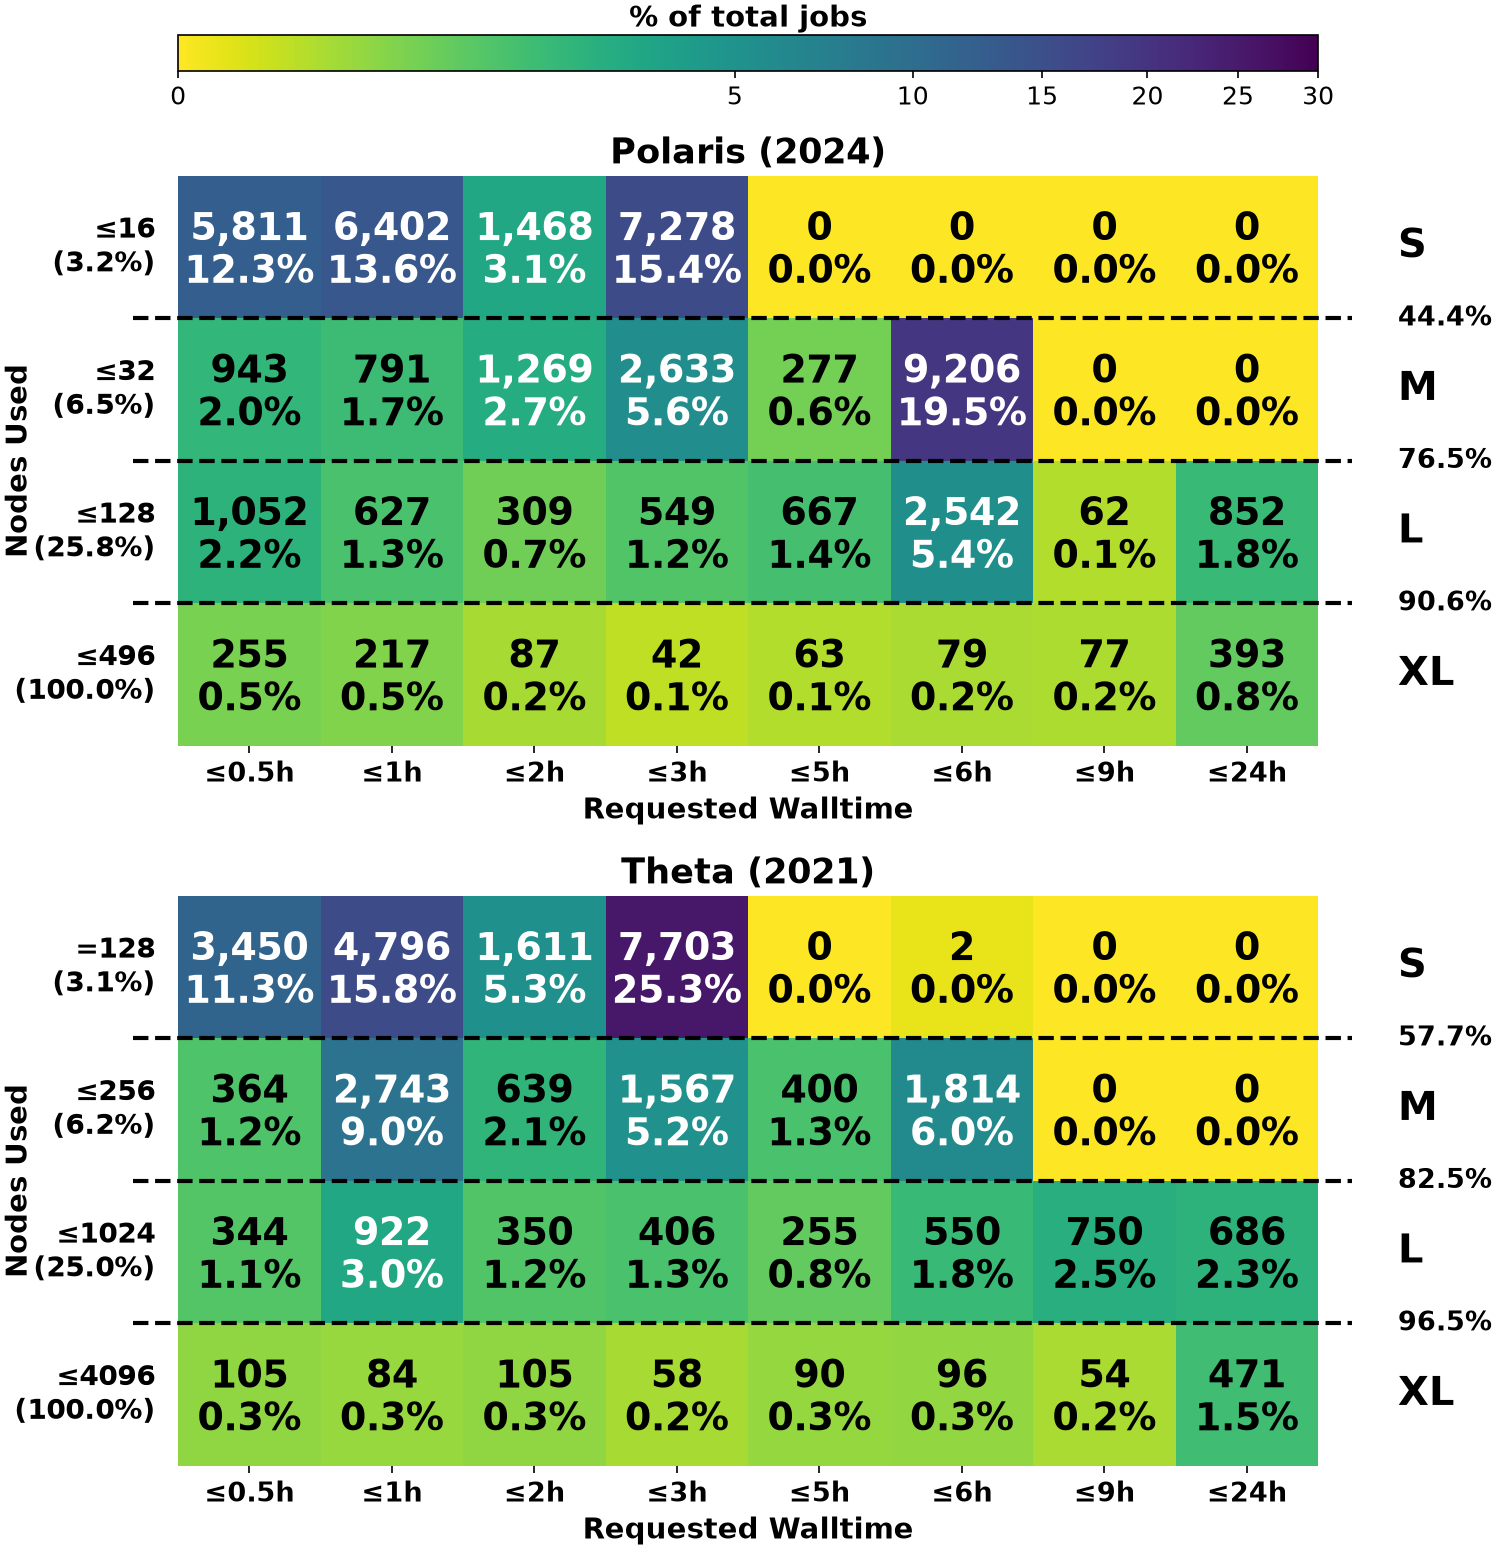
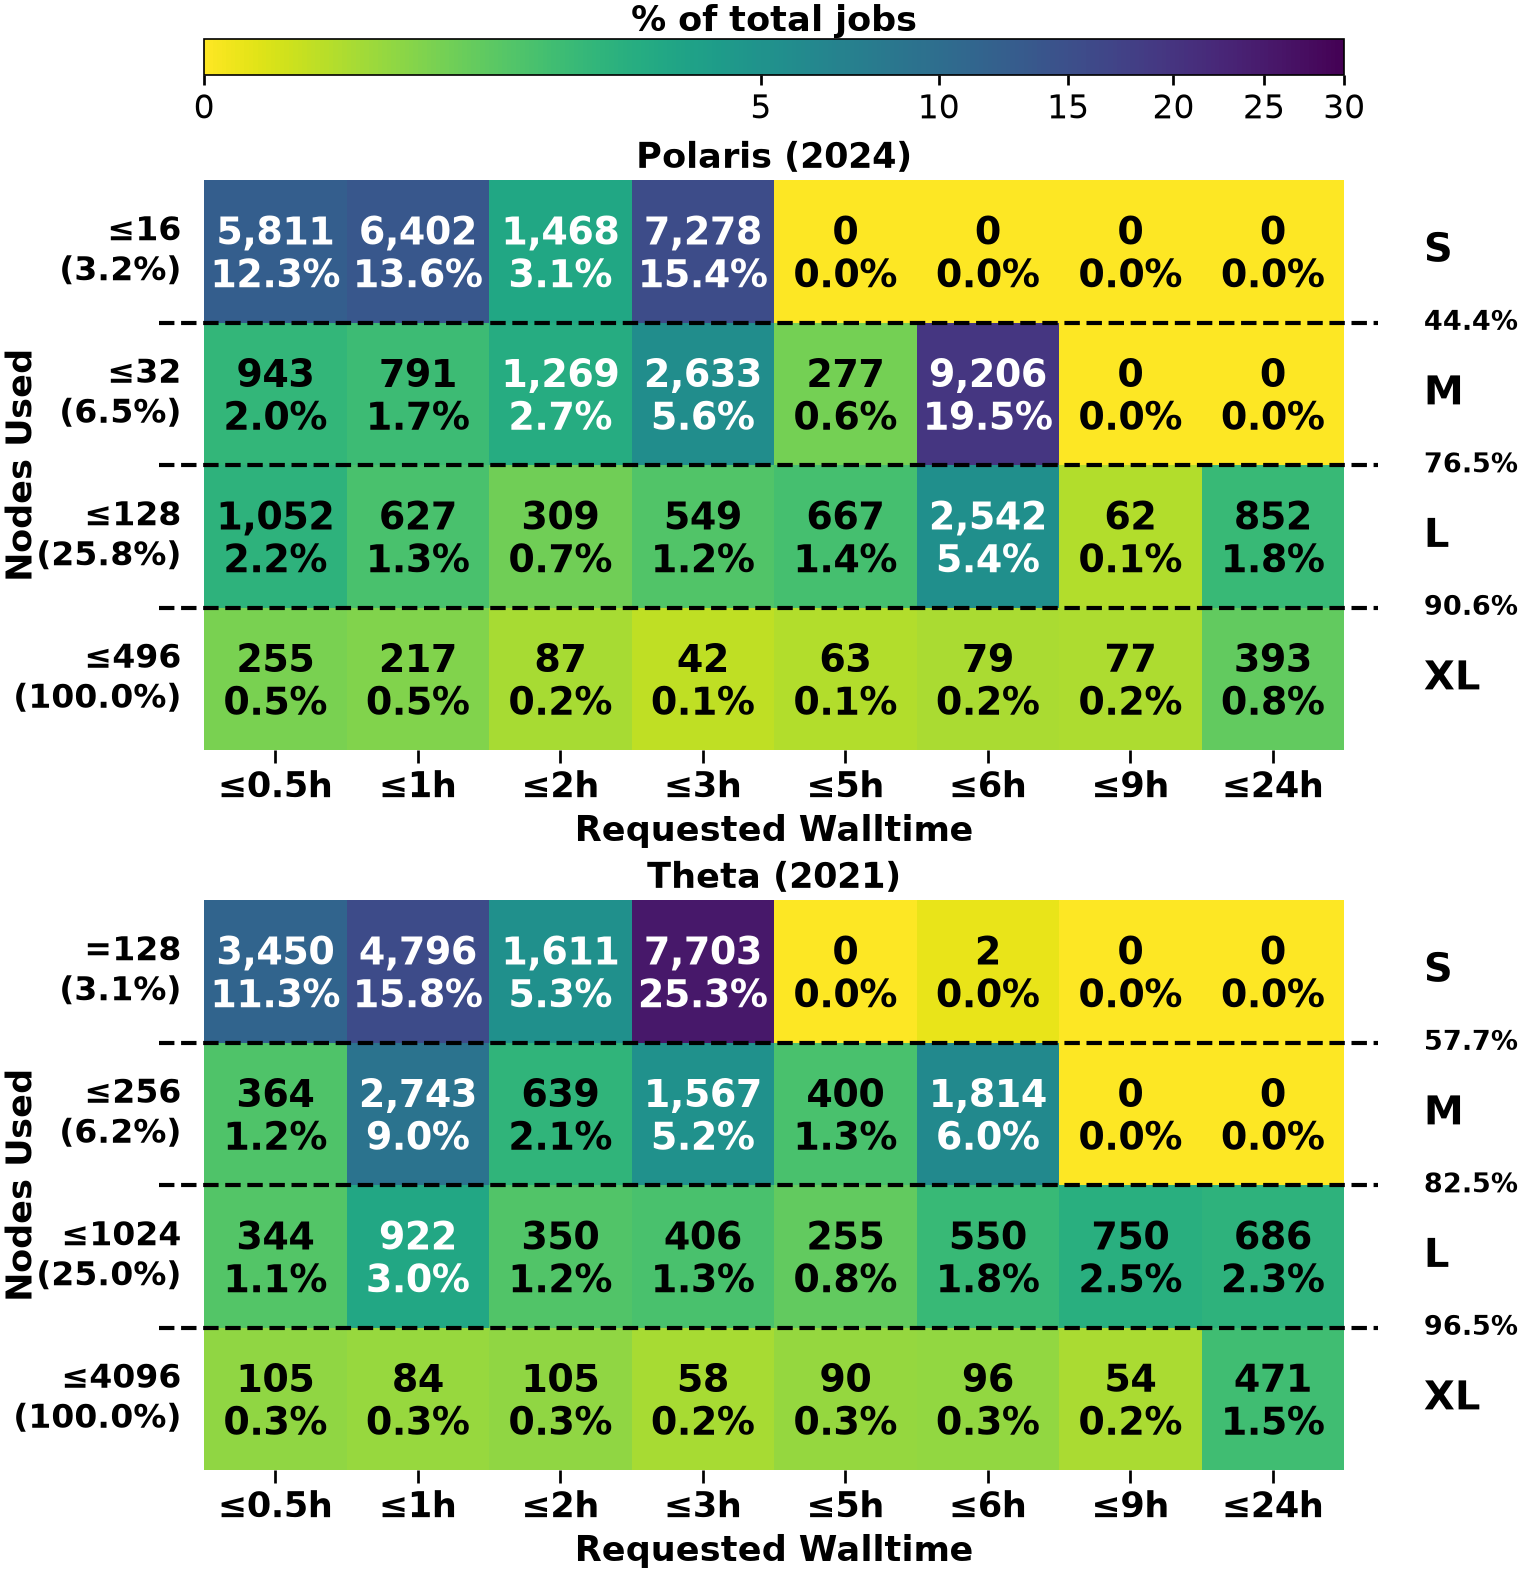
increase heatmap fonts

diff --git a/scripts/plot_cluster26.py b/scripts/plot_cluster26.py
@@ -1554,7 +1554,7 @@ def _cell_text_color(value, norm, cmap):
 # gridspec/aspect layout.
 _JD_CELL          = 0.95   # square cell edge length
 _JD_ROWLABEL_W    = 1.90   # row label column ("<=1024\n(25.0%)")
-_JD_YLABEL_W      = 0.085   # rotated "Nodes Used" column
+_JD_YLABEL_W      = 0.05   # rotated "Nodes Used" column
 _JD_RIGHTLABEL_W  = 0.85   # group letter + cumulative % column
 _JD_TITLE_H       = 0.40   # panel title
 _JD_XLABEL_H      = 0.48   # xtick labels + "Requested Walltime"
@@ -1590,7 +1590,8 @@ def _draw_job_distribution_panel(ax, job_dist, sys_size, title, norm, cmap):
     ax.set_xlim(0, n_cols)
     ax.set_ylim(n_rows, 0)
     ax.set_xticks(np.arange(n_cols) + 0.5)
-    ax.set_xticklabels(WT_LABELS, fontsize=13, fontweight="bold")
+    ax.set_xticklabels(WT_LABELS, fontsize=17, fontweight="bold")
+    ax.tick_params(axis="x", length=6, width=1.3)
     ax.set_yticks([])
     for spine in ax.spines.values():
         spine.set_visible(False)
@@ -1603,7 +1604,7 @@ def _draw_job_distribution_panel(ax, job_dist, sys_size, title, norm, cmap):
     for r, row in enumerate(rows):
         pct_of_sys = 100.0 * row["anchor"] / sys_size
         ax.text(-0.02, r + 0.5, f"{row['label']}\n({pct_of_sys:.1f}%)",
-                ha="right", va="center", fontsize=13.5, fontweight="bold",
+                ha="right", va="center", fontsize=16, fontweight="bold",
                 transform=row_trans)
 
     # Group dividers, right-hand S/M/L/XL labels, and cumulative %-of-jobs.
@@ -1670,10 +1671,10 @@ def plot_job_distribution(panels, out_path):
     sm = plt.cm.ScalarMappable(cmap=cmap, norm=norm)
     cbar = fig.colorbar(sm, cax=cax, orientation="horizontal", ticks=cbar_ticks)
     cbar.ax.set_xticklabels([f"{t:g}" for t in cbar_ticks])
-    cbar.set_label("% of total jobs", fontsize=14, fontweight="bold", labelpad=4)
+    cbar.set_label("% of total jobs", fontsize=17, fontweight="bold", labelpad=4)
     cbar.ax.xaxis.set_label_position("top")
     cbar.ax.xaxis.set_ticks_position("bottom")
-    cax.tick_params(labelsize=12)
+    cax.tick_params(labelsize=16, length=5, width=1.3)
     y_cursor -= _JD_CBAR_GAP
 
     for i, panel in enumerate(panels):
@@ -1683,9 +1684,9 @@ def plot_job_distribution(panels, out_path):
                            heatmap_w / fig_w, (n_rows * _JD_CELL) / fig_h])
         _draw_job_distribution_panel(
             ax, panel["job_dist"], panel["sys_size"], panel["label"], norm, cmap)
-        ax.set_xlabel("Requested Walltime", fontsize=14, fontweight="bold", labelpad=4)
+        ax.set_xlabel("Requested Walltime", fontsize=17, fontweight="bold", labelpad=4)
         fig.text(_JD_PAD + _JD_YLABEL_W / 2, y_cursor / fig_h + (n_rows * _JD_CELL / fig_h) / 2,
-                 "Nodes Used", ha="center", va="center", fontsize=14,
+                 "Nodes Used", ha="center", va="center", fontsize=17,
                  fontweight="bold", rotation=90)
         y_cursor -= _JD_XLABEL_H + _JD_PANEL_GAP
 
